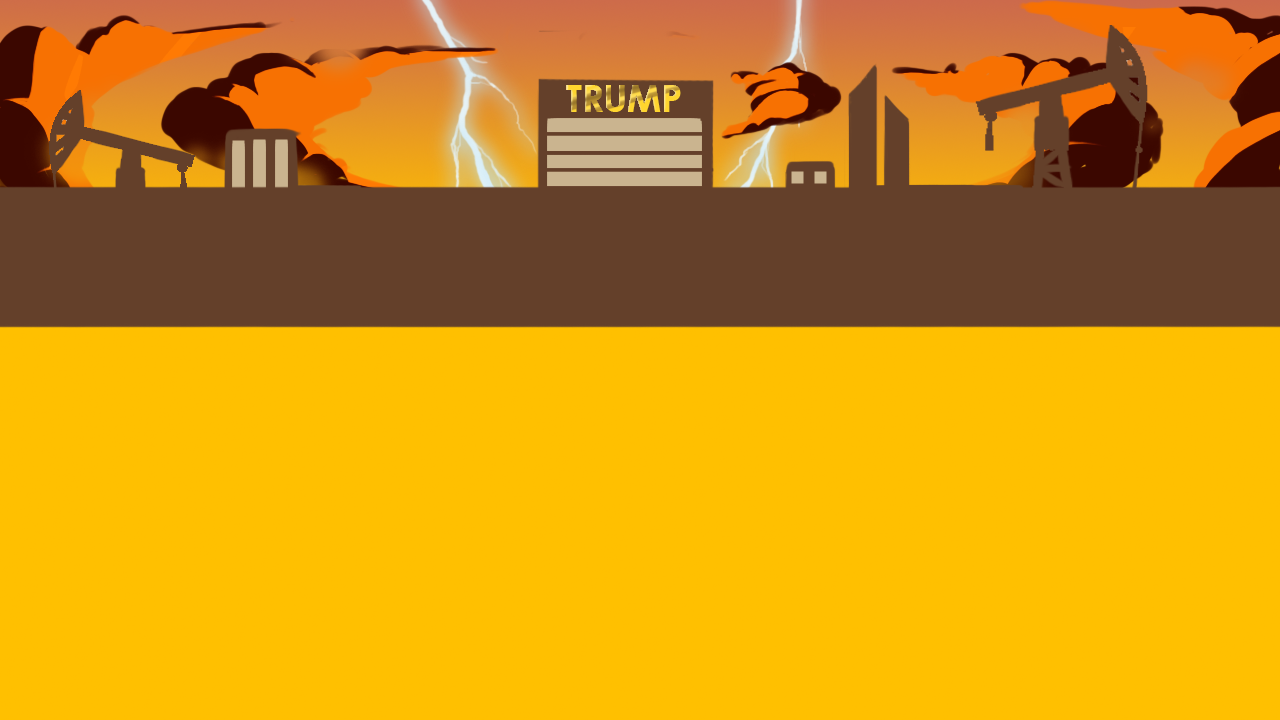
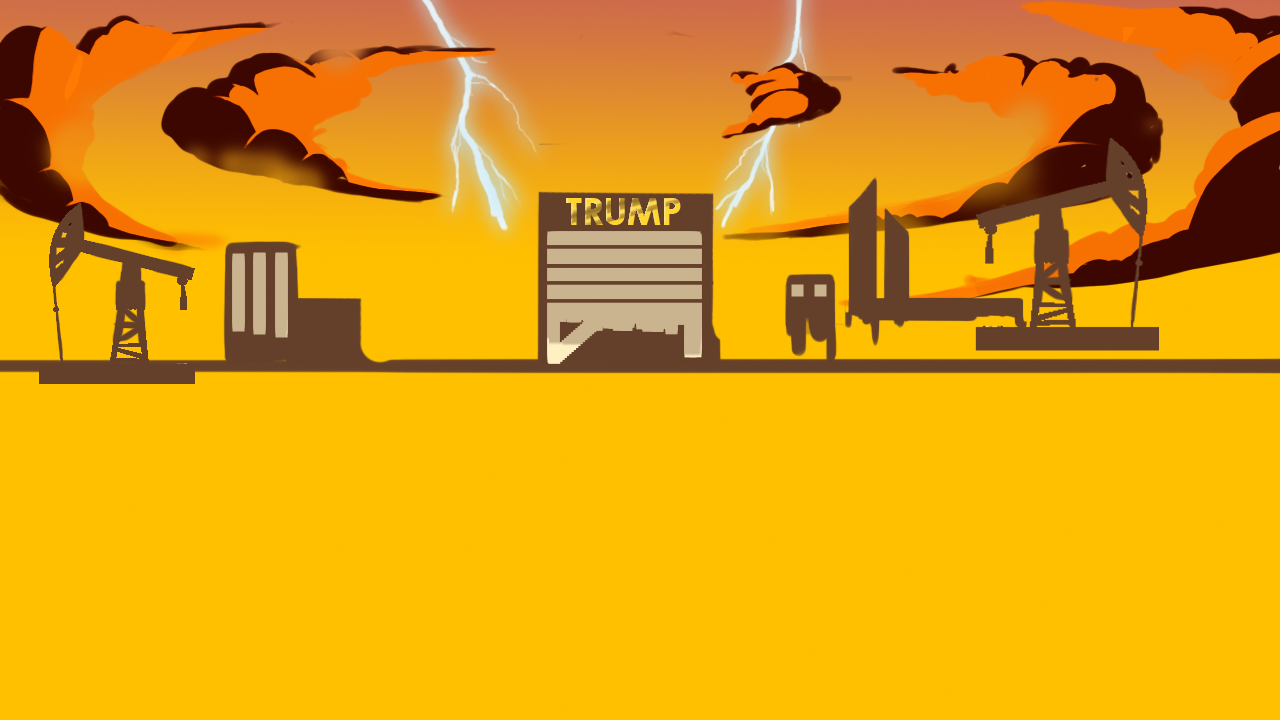
Better bg

Changed region(s): [[0.0, 0.0306, 1.0, 0.55]]

diff --git a/core/src/io/syhids/mgj17/Entities.kt b/core/src/io/syhids/mgj17/Entities.kt
@@ -101,7 +101,7 @@ class Wall : Entity() {
 class Background : Entity() {
     init {
         val texture = Texture("background.png")
-        add(PositionComponent(y = yAlignBottom(texture) + 50f))
+        add(PositionComponent(y = yAlignBottom(texture) + 115f))
         add(SpriteComponent(img = texture, depth = -2))
     }
 }
